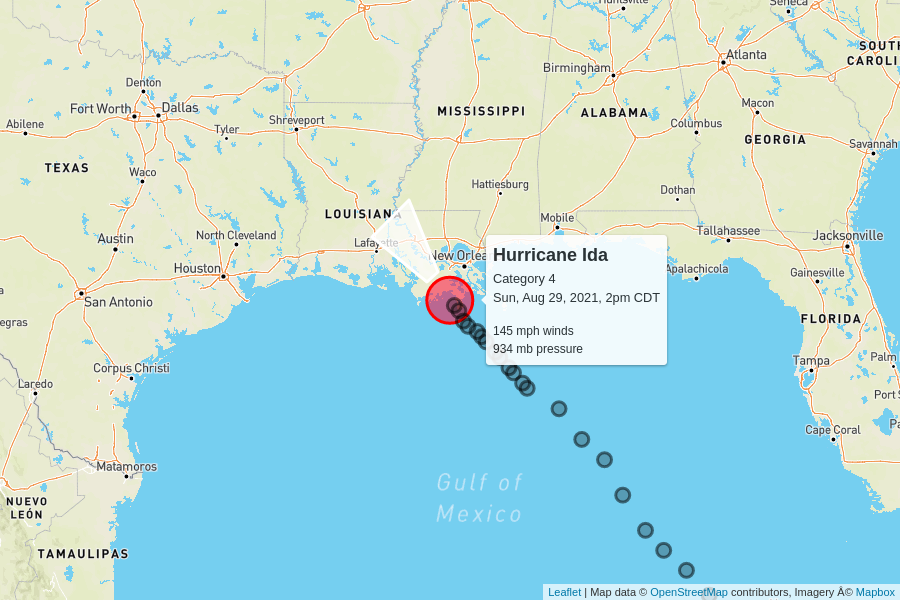
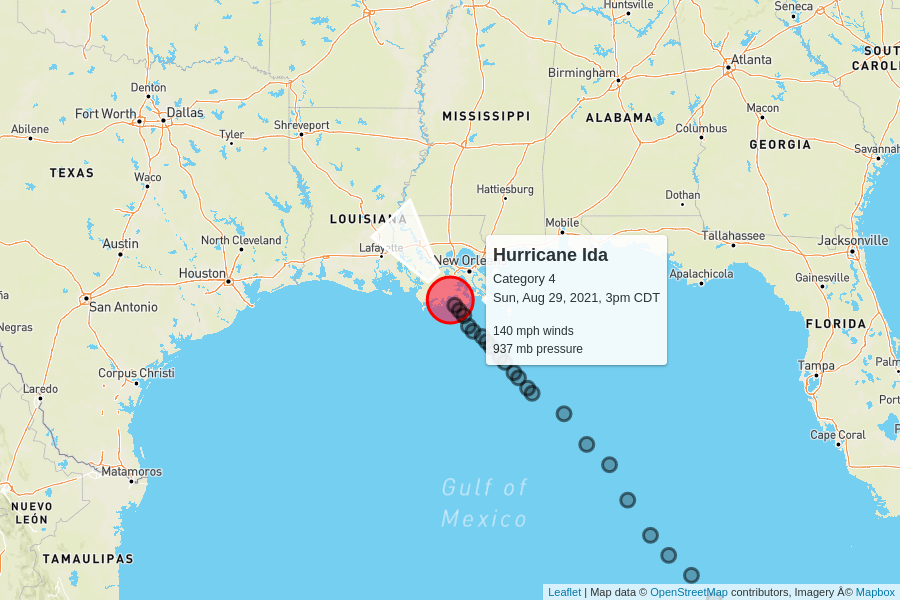
automatic update

diff --git a/docs/index.html b/docs/index.html
@@ -95,7 +95,7 @@
         <td colspan="6" class="storm category-4">
           <h2>
             Hurricane Ida - Category 4
-            <p class="updated">last updated <span data-time>2021-08-29T19:00:00.000Z</span></p>
+            <p class="updated">last updated <span data-time>2021-08-29T20:00:00.000Z</span></p>
           </h2>
         </td>
       </tr>
@@ -110,10 +110,10 @@
       </tr>
       <tr>
         <td class="spacer"></td>
-        <td>145 mph</td>
-        <td>934 mb</td>
+        <td>140 mph</td>
+        <td>937 mb</td>
         <td>
-          12 mph to the northwest
+          11 mph to the northwest
           <br/>
           <span style="display: inline-block; font-size: 1.5em; rotate: 320deg;">↑</span>
         </td>
